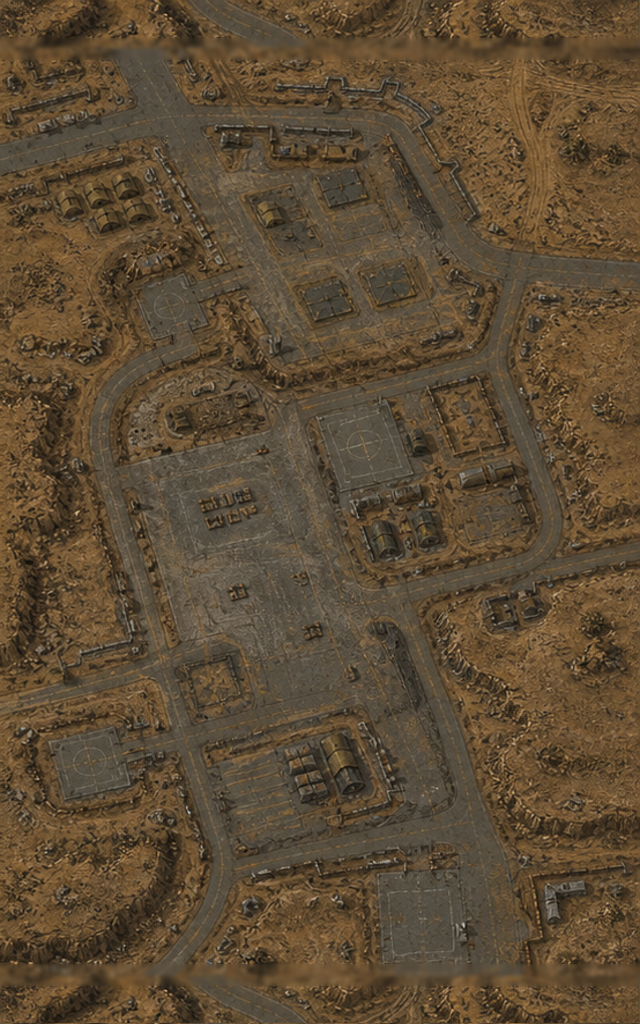
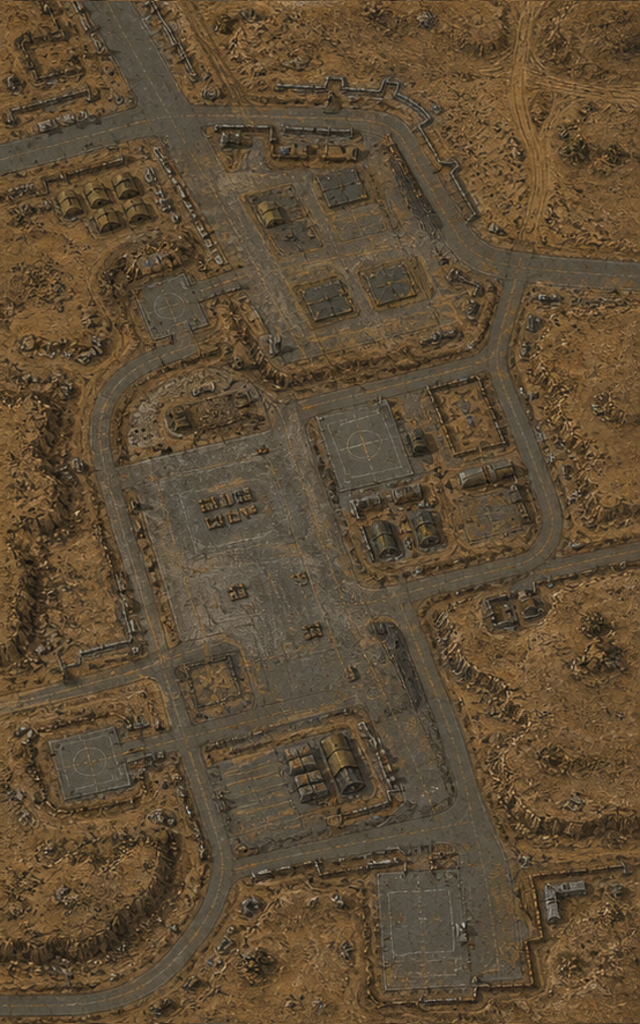
feat: repair desert route presentation

Changed region(s): [[0.0, 0.9375, 1.0, 1.0], [0.0, 0.0, 1.0, 0.0625]]

diff --git a/tools/build_desert_route_expansion.py b/tools/build_desert_route_expansion.py
@@ -22,10 +22,11 @@ def build_district(name, base_name, contrast, colour, brightness):
     result = ImageEnhance.Contrast(result).enhance(contrast)
     result = ImageEnhance.Color(result).enhance(colour)
     result = ImageEnhance.Brightness(result).enhance(brightness)
-    # Restore the common route connectors after grading. Convoys, launchers,
-    # dust gusts, vehicle scars and destructible sites remain separate layers.
-    result.paste(original.crop((0, 0, 640, 48)), (0, 0))
-    result.paste(original.crop((0, 976, 640, 1024)), (0, 976))
+    # Restore only the exact boundary scanline after grading. Copying 48-row
+    # edge blocks into the mirrored district created hard horizontal bands at
+    # rows 48 and 976 even though the outermost seam itself tested cleanly.
+    result.paste(original.crop((0, 0, 640, 1)), (0, 0))
+    result.paste(original.crop((0, 1023, 640, 1024)), (0, 1023))
     SOURCE.mkdir(parents=True, exist_ok=True)
     RUNTIME.mkdir(parents=True, exist_ok=True)
     result.save(SOURCE / f"{name}.png", optimize=True)
